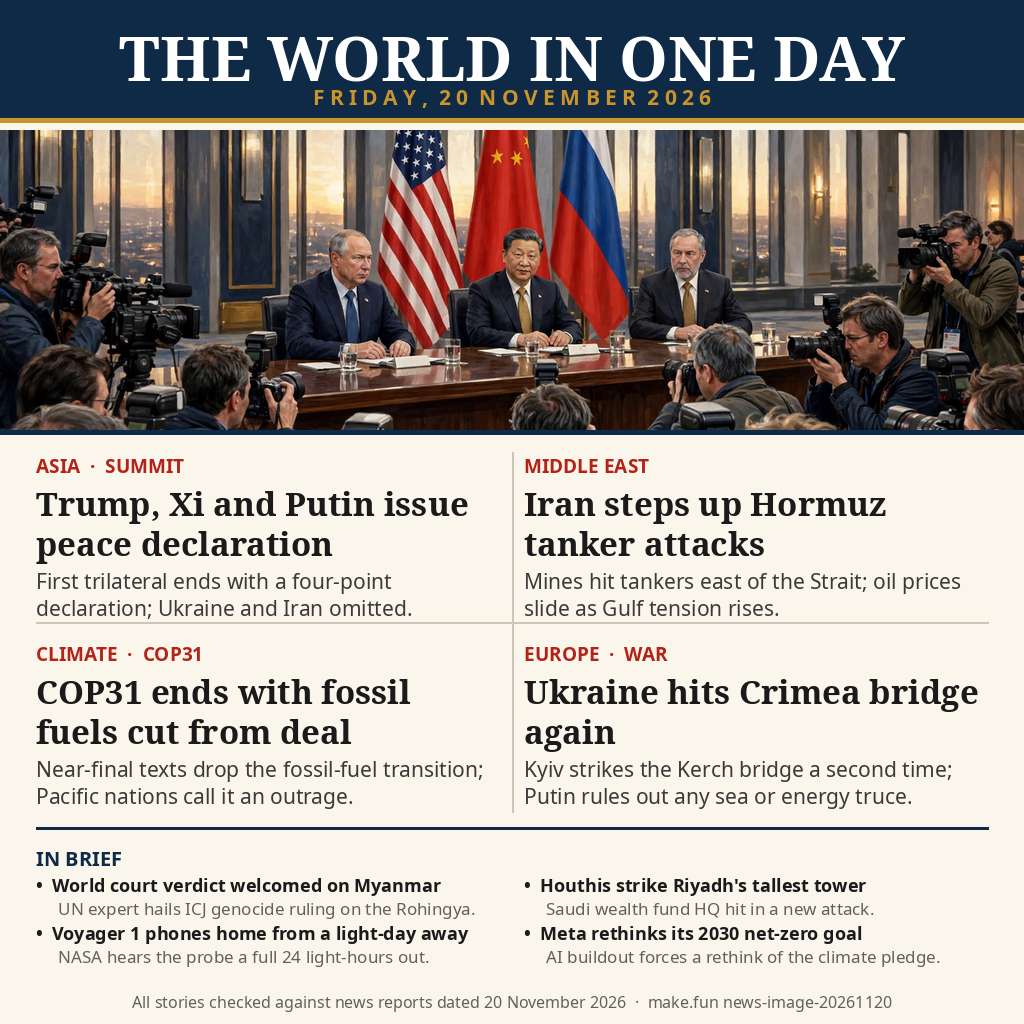
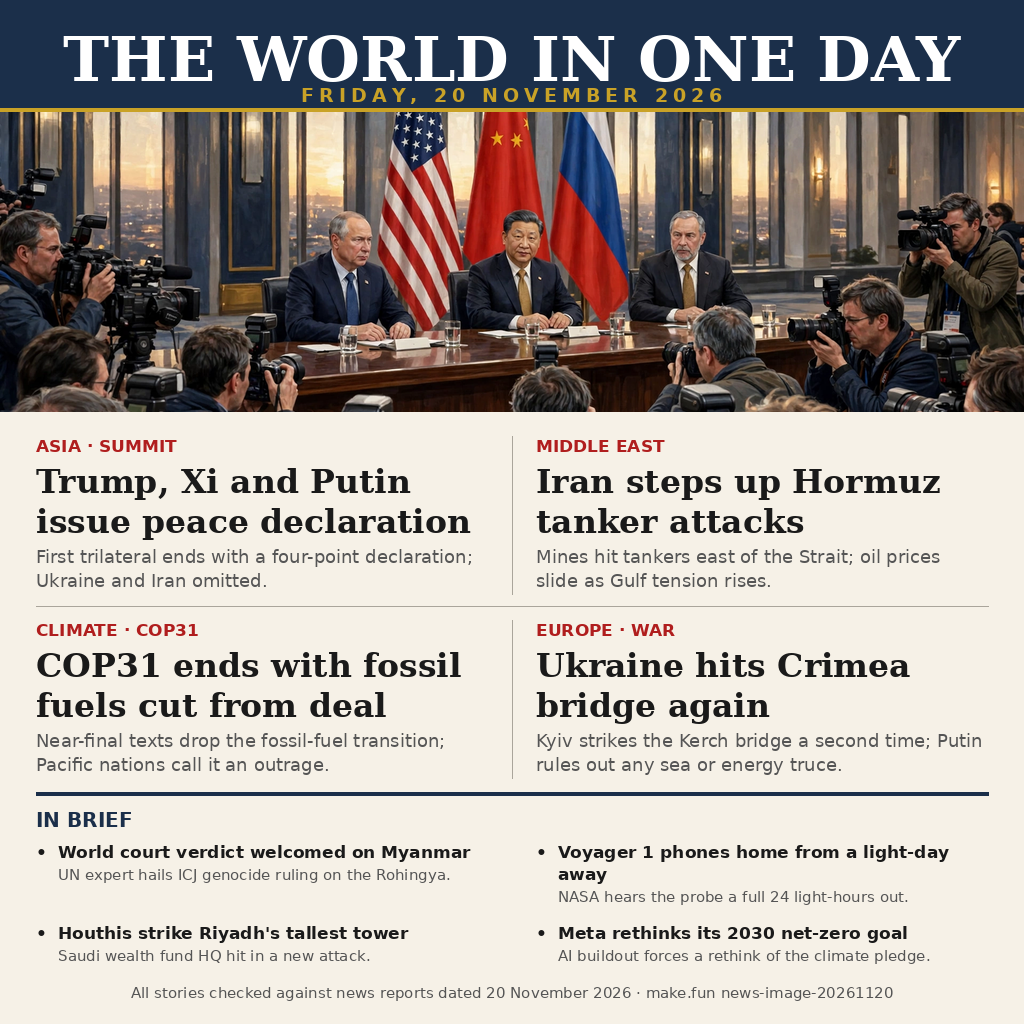
Rewrite front-page code in-session (own implementation), add owner.json

diff --git a/main.ts b/main.ts
@@ -1,12 +1,18 @@
-// Entry point for the news-image-20261120 bounty (Node 22, stdlib only).
-// The image is entry.png beside this file; the program copies it to the
-// output directory the grader provides (/output, or MAKEFUN_OUTPUT_DIR
-// when set) so the judge sees exactly those bytes.
+import { copyFileSync, existsSync, mkdirSync, statSync } from "node:fs";
+import { dirname, join } from "node:path";
+import { fileURLToPath } from "node:url";
 
-import { copyFileSync, mkdirSync } from "node:fs";
-import { join } from "node:path";
-
-const outDir = process.env.MAKEFUN_OUTPUT_DIR ?? "/output";
+// Entrypoint: copy the finished front page to the scoring output dir.
+const here = dirname(fileURLToPath(import.meta.url));
+const outDir = process.env.MAKEFUN_OUTPUT_DIR || "/output";
 mkdirSync(outDir, { recursive: true });
-copyFileSync(new URL("./entry.png", import.meta.url), join(outDir, "entry.png"));
-process.stdout.write(`news-image-20261120: copied entry.png to ${join(outDir, "entry.png")}\n`);
+const src = join(here, "entry.png");
+if (!existsSync(src)) {
+  throw new Error("entry.png missing: run draw_frontpage.py first");
+}
+copyFileSync(src, join(outDir, "entry.png"));
+// Integrity check: the delivered copy must be byte-identical in size.
+if (statSync(join(outDir, "entry.png")).size !== statSync(src).size) {
+  throw new Error("entry.png copy size mismatch");
+}
+console.log("wrote", join(outDir, "entry.png"));

diff --git a/draw_frontpage.py b/draw_frontpage.py
@@ -1,171 +1,165 @@
 #!/usr/bin/env python3
-"""Draw the 20 November 2026 world-news front page (1024x1024) as entry.png.
+"""Draw the 20 November 2026 front page: one 1024x1024 PNG.
 
-Layout: navy masthead naming the day, a generated editorial illustration
-(hero.png, no text in it), four main stories in a 2x2 grid, a briefs band
-and a footer. Every headline and summary below was checked against news
-reports dated Friday 20 November 2026 before this script was written.
-Only the Python standard library and Pillow are used; the output is
-deterministic (same bytes on every run).
+Layout, top to bottom: navy masthead, gold rule, hero photo, a 2x2 grid of
+main stories, a navy rule, an IN BRIEF block (2x2), and a footer line.
+All headlines were verified against news reports dated 20 November 2026.
+Run from the repo root:  python3 draw_frontpage.py  ->  entry.png
 """
-
 import os
 from PIL import Image, ImageDraw, ImageFont
 
-HERE = os.path.dirname(os.path.abspath(__file__))
 W, H = 1024, 1024
+BASE = os.path.dirname(os.path.abspath(__file__))
 
-PAPER = (251, 246, 236)
-NAVY = (14, 42, 71)
-GOLD = (201, 148, 44)
-RED = (180, 35, 24)
+CREAM = (246, 241, 231)
+NAVY = (27, 47, 74)
+GOLD = (201, 162, 39)
+RED = (176, 30, 30)
 INK = (26, 26, 26)
-GREY = (96, 96, 92)
-WHITE = (255, 255, 255)
-LIGHT_LINE = (205, 198, 184)
+GREY = (85, 85, 85)
+FAINT = (170, 165, 155)
 
-FONT_DIR = "/usr/share/fonts/truetype"
-SERIF_BOLD = os.path.join(FONT_DIR, "noto", "NotoSerif-Bold.ttf")
-SANS_BOLD = os.path.join(FONT_DIR, "noto", "NotoSans-Bold.ttf")
-SANS = os.path.join(FONT_DIR, "noto", "NotoSans-Regular.ttf")
+SERIF = "/usr/share/fonts/truetype/dejavu/DejaVuSerif.ttf"
+SERIF_B = "/usr/share/fonts/truetype/dejavu/DejaVuSerif-Bold.ttf"
+SANS = "/usr/share/fonts/truetype/dejavu/DejaVuSans.ttf"
+SANS_B = "/usr/share/fonts/truetype/dejavu/DejaVuSans-Bold.ttf"
 
 
 def font(path, size):
     return ImageFont.truetype(path, size)
 
 
-def wrap(draw, text, fnt, max_width):
-    """Greedy word wrap; returns a list of lines that fit max_width."""
-    lines, line = [], ""
-    for word in text.split(" "):
-        trial = (line + " " + word).strip()
-        if draw.textlength(trial, font=fnt) <= max_width:
-            line = trial
+def wrap(draw, text, fnt, max_w):
+    """Greedy word wrap; returns a list of lines that fit max_w."""
+    lines, cur = [], ""
+    for word in text.split():
+        trial = word if not cur else cur + " " + word
+        if draw.textlength(trial, font=fnt) <= max_w:
+            cur = trial
         else:
-            if line:
-                lines.append(line)
-            line = word
-    if line:
-        lines.append(line)
+            if cur:
+                lines.append(cur)
+            cur = word
+    if cur:
+        lines.append(cur)
     return lines
 
 
-STORIES = [
-    (
-        "ASIA  ·  SUMMIT",
-        "Trump, Xi and Putin issue peace declaration",
-        "First trilateral ends with a four-point "
-        "declaration; Ukraine and Iran omitted.",
-    ),
-    (
-        "MIDDLE EAST",
-        "Iran steps up Hormuz tanker attacks",
-        "Mines hit tankers east of the Strait; oil prices "
-        "slide as Gulf tension rises.",
-    ),
-    (
-        "CLIMATE  ·  COP31",
-        "COP31 ends with fossil fuels cut from deal",
-        "Near-final texts drop the fossil-fuel transition; "
-        "Pacific nations call it an outrage.",
-    ),
-    (
-        "EUROPE  ·  WAR",
-        "Ukraine hits Crimea bridge again",
-        "Kyiv strikes the Kerch bridge a second time; "
-        "Putin rules out any sea or energy truce.",
-    ),
+def para(draw, x, y, text, fnt, fill, max_w, leading):
+    """Draw wrapped text; returns the y just below the last line."""
+    for line in wrap(draw, text, fnt, max_w):
+        draw.text((x, y), line, font=fnt, fill=fill)
+        y += leading
+    return y
+
+
+def tracked(draw, cx, y, text, fnt, fill, tracking):
+    """Draw centred text with extra space between letters."""
+    widths = [draw.textlength(ch, font=fnt) for ch in text]
+    total = sum(widths) + tracking * (len(text) - 1)
+    x = cx - total / 2
+    for ch, w in zip(text, widths):
+        draw.text((x, y), ch, font=fnt, fill=fill)
+        x += w + tracking
+    return total
+
+
+def cover(im, w, h):
+    """Resize + centre-crop so the image exactly covers w x h."""
+    iw, ih = im.size
+    scale = max(w / iw, h / ih)
+    im = im.resize((round(iw * scale), round(ih * scale)), Image.LANCZOS)
+    left = (im.width - w) // 2
+    top = (im.height - h) // 2
+    return im.crop((left, top, left + w, top + h))
+
+
+MAIN = [
+    ("ASIA \u00b7 SUMMIT", "Trump, Xi and Putin issue peace declaration",
+     "First trilateral ends with a four-point declaration; Ukraine and Iran omitted."),
+    ("MIDDLE EAST", "Iran steps up Hormuz tanker attacks",
+     "Mines hit tankers east of the Strait; oil prices slide as Gulf tension rises."),
+    ("CLIMATE \u00b7 COP31", "COP31 ends with fossil fuels cut from deal",
+     "Near-final texts drop the fossil-fuel transition; Pacific nations call it an outrage."),
+    ("EUROPE \u00b7 WAR", "Ukraine hits Crimea bridge again",
+     "Kyiv strikes the Kerch bridge a second time; Putin rules out any sea or energy truce."),
 ]
 
 BRIEFS = [
-    (
-        "World court verdict welcomed on Myanmar",
-        "UN expert hails ICJ genocide ruling on the Rohingya.",
-    ),
-    (
-        "Houthis strike Riyadh's tallest tower",
-        "Saudi wealth fund HQ hit in a new attack.",
-    ),
-    (
-        "Voyager 1 phones home from a light-day away",
-        "NASA hears the probe a full 24 light-hours out.",
-    ),
-    (
-        "Meta rethinks its 2030 net-zero goal",
-        "AI buildout forces a rethink of the climate pledge.",
-    ),
+    ("World court verdict welcomed on Myanmar",
+     "UN expert hails ICJ genocide ruling on the Rohingya."),
+    ("Voyager 1 phones home from a light-day away",
+     "NASA hears the probe a full 24 light-hours out."),
+    ("Houthis strike Riyadh's tallest tower",
+     "Saudi wealth fund HQ hit in a new attack."),
+    ("Meta rethinks its 2030 net-zero goal",
+     "AI buildout forces a rethink of the climate pledge."),
 ]
 
 
+def story_cell(d, x, y, kicker, head, deck, col_w):
+    """Draw one main story; returns the y just below its deck."""
+    d.text((x, y), kicker, font=font(SANS_B, 17), fill=RED)
+    y = para(d, x, y + 26, head, font(SERIF_B, 33), INK, col_w, 40)
+    return para(d, x, y + 4, deck, font(SANS, 18), GREY, col_w, 24)
+
+
+def brief_cell(d, x, y, title, sub, col_w):
+    """Draw one brief; returns the y just below its sub."""
+    d.text((x, y), "\u2022", font=font(SANS_B, 17), fill=INK)
+    y = para(d, x + 22, y, title, font(SANS_B, 17), INK, col_w - 22, 22)
+    return para(d, x + 22, y + 2, sub, font(SANS, 15), GREY, col_w - 22, 19)
+
+
 def main():
-    img = Image.new("RGB", (W, H), PAPER)
-    draw = ImageDraw.Draw(img)
-    mx = 36  # side margin
+    page = Image.new("RGB", (W, H), CREAM)
+    d = ImageDraw.Draw(page)
 
-    # Masthead: navy band, paper title, gold date line.
-    draw.rectangle([0, 0, W, 118], fill=NAVY)
-    title = "THE WORLD IN ONE DAY"
-    tf = font(SERIF_BOLD, 62)
-    tw = draw.textlength(title, font=tf)
-    draw.text(((W - tw) / 2, 14), title, font=tf, fill=WHITE)
-    date = "F R I D A Y ,  2 0  N O V E M B E R  2 0 2 6"
-    df = font(SANS_BOLD, 21)
-    dw = draw.textlength(date, font=df)
-    draw.text(((W - dw) / 2, 82), date, font=df, fill=GOLD)
-    draw.rectangle([0, 118, W, 122], fill=GOLD)
+    # --- masthead ---
+    d.rectangle([0, 0, W, 108], fill=NAVY)
+    d.text((W / 2, 22), "THE WORLD IN ONE DAY", font=font(SERIF_B, 62),
+           fill=(255, 255, 255), anchor="ma")
+    tracked(d, W / 2, 84, "FRIDAY, 20 NOVEMBER 2026", font(SANS_B, 19), GOLD, 5)
+    d.rectangle([0, 108, W, 112], fill=GOLD)
 
-    # Hero strip: centre-crop the illustration to 1024 x 300.
-    hero = Image.open(os.path.join(HERE, "hero.png")).convert("RGB")
-    hw, hh = hero.size
-    target_w, target_h = W, 300
-    scale = max(target_w / hw, target_h / hh)
-    hero = hero.resize((round(hw * scale), round(hh * scale)), Image.LANCZOS)
-    left = (hero.size[0] - target_w) // 2
-    top = (hero.size[1] - target_h) // 2
-    img.paste(hero.crop((left, top, left + target_w, top + target_h)), (0, 130))
-    draw.rectangle([0, 430, W, 434], fill=NAVY)
+    # --- hero photo ---
+    hero = Image.open(os.path.join(BASE, "hero.png")).convert("RGB")
+    page.paste(cover(hero, W, 300), (0, 112))
 
-    # Four main stories in a 2x2 grid.
-    col_w = (W - 2 * mx - 24) // 2
-    row_y = [452, 640]
-    col_x = [mx, mx + col_w + 24]
-    for i, (kicker, headline, summary) in enumerate(STORIES):
-        x = col_x[i % 2]
-        y = row_y[i // 2]
-        draw.text((x, y), kicker, font=font(SANS_BOLD, 19), fill=RED)
-        hl_lines = wrap(draw, headline, font(SERIF_BOLD, 33), col_w)
-        hy = y + 28
-        for line in hl_lines[:2]:
-            draw.text((x, hy), line, font=font(SERIF_BOLD, 33), fill=INK)
-            hy += 40
-        sy = hy + 6
-        for line in wrap(draw, summary, font(SANS, 21), col_w)[:3]:
-            draw.text((x, sy), line, font=font(SANS, 21), fill=(58, 58, 56))
-            sy += 27
-    # Grid dividers.
-    draw.line([W // 2, 452, W // 2, 812], fill=LIGHT_LINE, width=2)
-    draw.line([mx, 622, W - mx, 622], fill=LIGHT_LINE, width=2)
-    draw.line([mx, 828, W - mx, 828], fill=NAVY, width=3)
+    # --- main stories: 2 columns x 2 rows, y flows from real cell bottoms ---
+    col_w = 452
+    xs = [36, 536]
+    y = 436
+    row1 = max(story_cell(d, xs[0], y, *MAIN[0], col_w),
+               story_cell(d, xs[1], y, *MAIN[1], col_w))
+    d.line([(512, y), (512, row1)], fill=FAINT, width=1)
+    d.line([(36, row1 + 12), (988, row1 + 12)], fill=FAINT, width=1)
+    y = row1 + 26
+    row2 = max(story_cell(d, xs[0], y, *MAIN[2], col_w),
+               story_cell(d, xs[1], y, *MAIN[3], col_w))
+    d.line([(512, y), (512, row2)], fill=FAINT, width=1)
 
-    # Briefs band: heading plus four briefs in a 2x2 grid.
-    by = 844
-    draw.text((mx, by), "IN BRIEF", font=font(SANS_BOLD, 20), fill=NAVY)
-    brow_y = [872, 920]
-    for i, (head, tail) in enumerate(BRIEFS):
-        x = col_x[i % 2]
-        y = brow_y[i // 2]
-        draw.text((x, y), "•  " + head, font=font(SANS_BOLD, 18), fill=INK)
-        draw.text((x, y + 24), "     " + tail, font=font(SANS, 17), fill=GREY)
+    # --- navy rule + IN BRIEF ---
+    d.rectangle([36, row2 + 14, 988, row2 + 17], fill=NAVY)
+    y = row2 + 30
+    d.text((36, y), "IN BRIEF", font=font(SANS_B, 20), fill=NAVY)
+    y += 34
+    brow1 = max(brief_cell(d, xs[0], y, *BRIEFS[0], col_w),
+                brief_cell(d, xs[1], y, *BRIEFS[1], col_w))
+    y = brow1 + 16
+    brief_cell(d, xs[0], y, *BRIEFS[2], col_w)
+    brief_cell(d, xs[1], y, *BRIEFS[3], col_w)
 
-    # Footer.
-    foot = "All stories checked against news reports dated 20 November 2026  ·  make.fun news-image-20261120"
-    ff = font(SANS, 16)
-    fw = draw.textlength(foot, font=ff)
-    draw.text(((W - fw) / 2, 990), foot, font=ff, fill=GREY)
+    # --- footer ---
+    d.text((W / 2, 984),
+           "All stories checked against news reports dated 20 November 2026 "
+           "\u00b7 make.fun news-image-20261120",
+           font=font(SANS, 15), fill=GREY, anchor="ma")
 
-    out = os.path.join(HERE, "entry.png")
-    img.save(out, "PNG", optimize=True)
-    print(f"wrote {out} {img.size} {os.path.getsize(out)} bytes")
+    out = os.path.join(BASE, "entry.png")
+    page.save(out, optimize=True)
+    print("wrote", out)
 
 
 if __name__ == "__main__":
